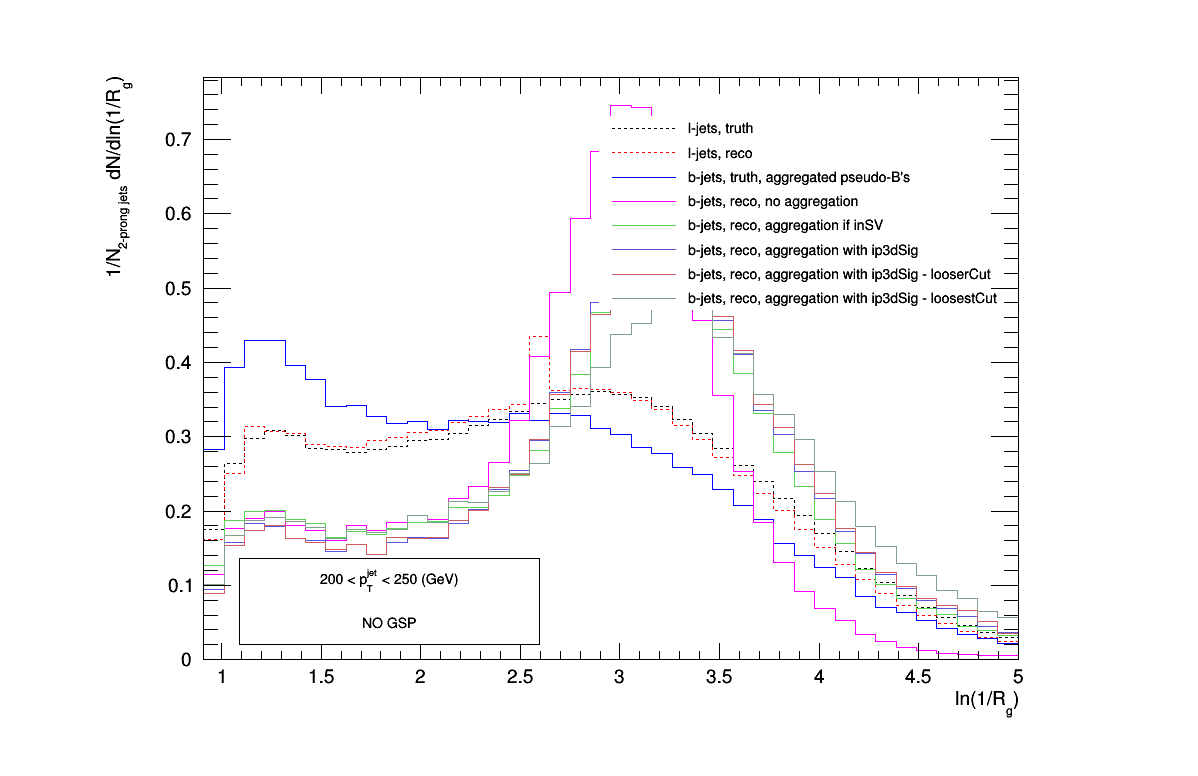
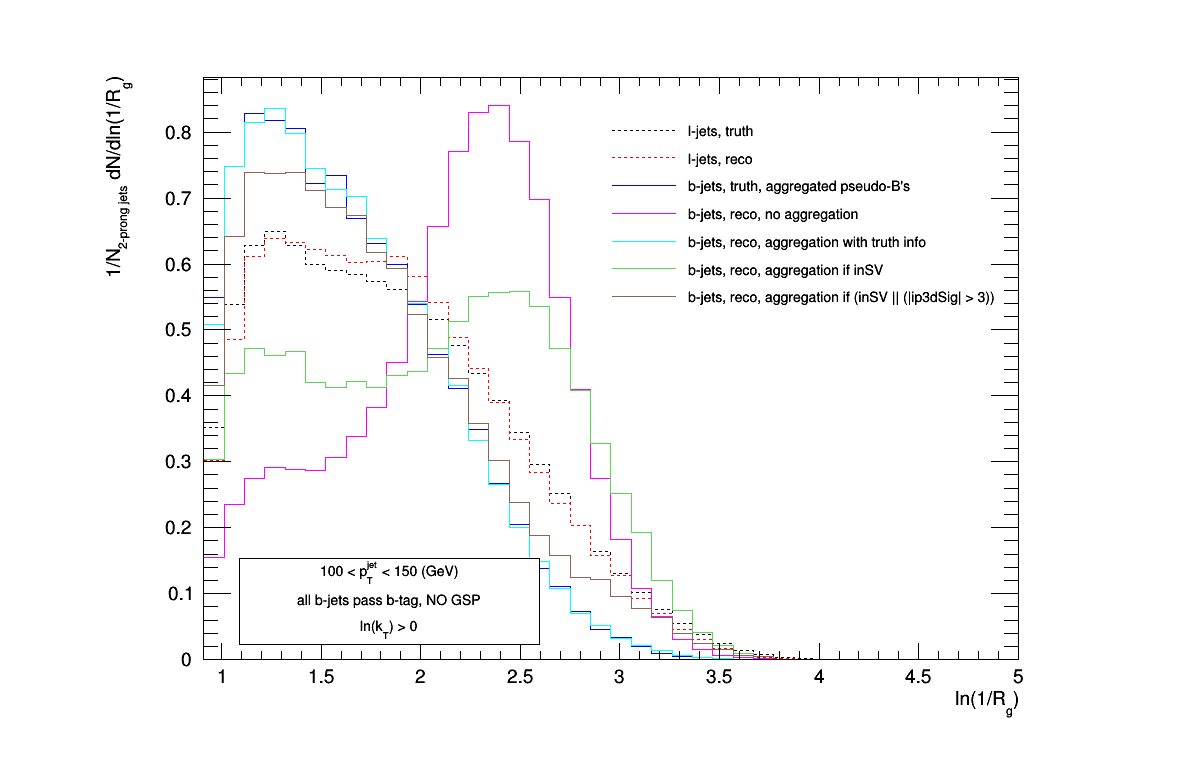
rg projection plot with fixed bugs

diff --git a/myMacros/pt2dscan/HistDrawer_pt2dscan.h b/myMacros/pt2dscan/HistDrawer_pt2dscan.h
@@ -166,7 +166,7 @@ void HistDrawer_pt2dscan::draw_rg_projection(bool GSPincl)
 
     HistLoader_pt2dscan HL_bjet_reco_truth(fname_merged_truth_reco, "hBtag_rgkt");
     TH1D *h1d_bjet_reco_truth = HL_bjet_reco_truth.do_rg_projection(ptrange, "h1d_bjet_reco_truth");
-    h1d_bjet_reco_truth->SetLineColor(9);
+    h1d_bjet_reco_truth->SetLineColor(7);
     h1d_bjet_reco_truth->SetLineStyle(1);
     leg->AddEntry(h1d_bjet_reco_truth, "b-jets, reco, aggregation with truth info", "l");
     hs->Add(h1d_bjet_reco_truth);
@@ -199,8 +199,10 @@ void HistDrawer_pt2dscan::draw_rg_projection(bool GSPincl)
     info->SetTextSize(15);
     info->AddText(Form("%.0f < p_{T}^{jet} < %0.f (GeV)", ptrange[0], ptrange[1]));
     if (!GSPincl) {
-        info->AddText("NO GSP");
+	  //info->AddText("truth doesn't pass b-tag, NO GSP");
+	  info->AddText("all b-jets pass b-tag, NO GSP");
     }
+	info->AddText("ln(k_{T}) > 0");
     info->Draw();
 
     c->Draw();

diff --git a/myMacros/pt2dscan/HistLoader_pt2dscan.h b/myMacros/pt2dscan/HistLoader_pt2dscan.h
@@ -48,6 +48,8 @@ TH1D * HistLoader_pt2dscan::do_rg_projection(Float_t *ptrange, std::string hname
 {
     TH3D *htemp = (TH3D *) h3d->Clone();
     htemp->GetZaxis()->SetRangeUser(ptrange[0], ptrange[1]);
+	htemp->GetYaxis()->SetRangeUser(0., 5.);
+
 
     TH1D *h1d = (TH1D *) htemp->Project3D("x");
 	h1d->SetName(hname.c_str());
